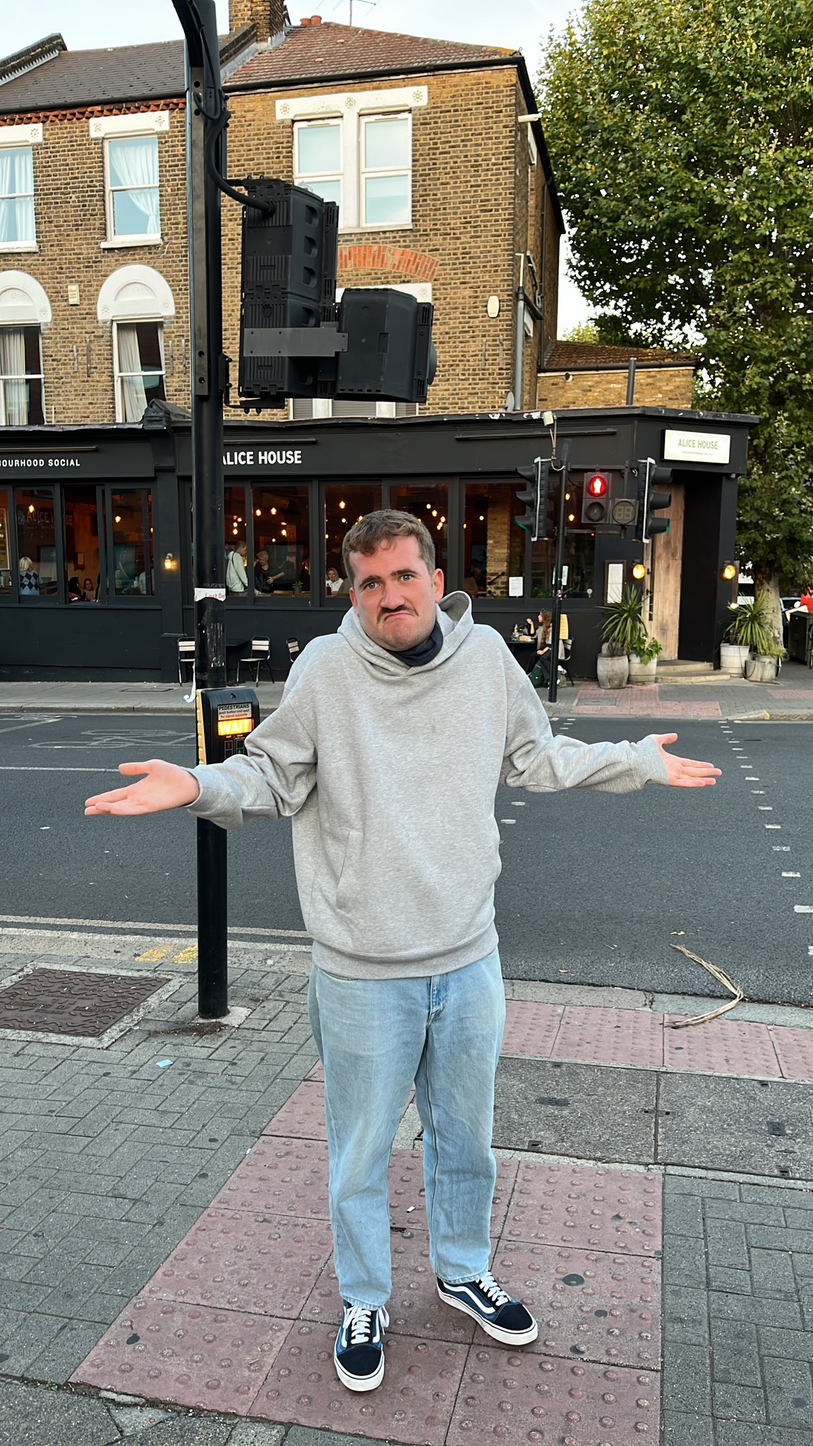
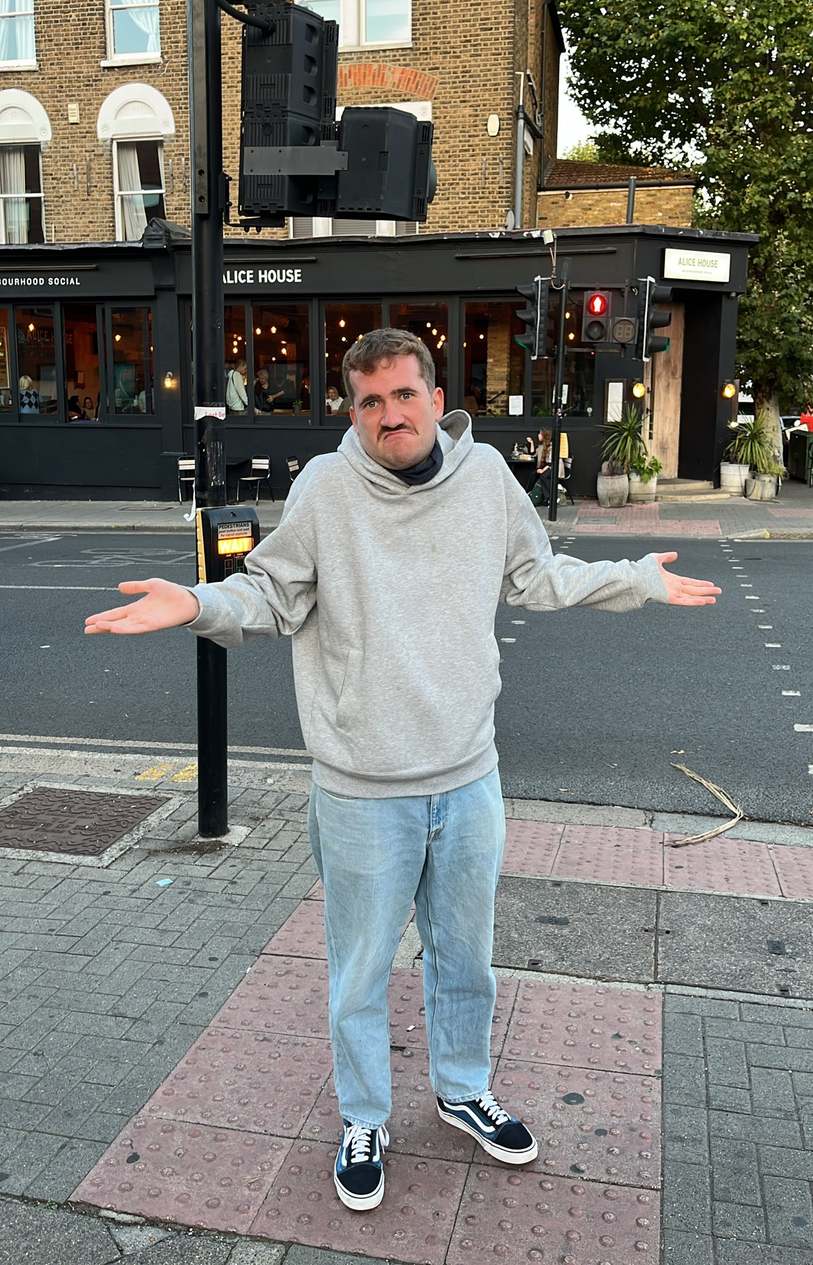
feat: update mentors and orga team

diff --git a/src/content/people.ts b/src/content/people.ts
@@ -4,12 +4,16 @@
  * avatar when omitted.
  */
 
+/** Omitted for regular on-site mentors. */
+export type MentorTeam = "awareness" | "remote";
+
 export type Mentor = {
   name: string;
   interest: string;
   avatar?: string;
   /** Shown on the back of the card when it is flipped. */
   altAvatar?: string;
+  team?: MentorTeam;
 };
 
 export const mentors: Mentor[] = [
@@ -17,6 +21,21 @@ export const mentors: Mentor[] = [
   { name: "Jan Wirwahn", interest: "Hardware", avatar: "/mentors/org/jan.jpg", altAvatar: "/mentors/alt/jan.jpg" },
   { name: "Eric Thieme-Garmann", interest: "Software", avatar: "/mentors/org/eric.jpg", altAvatar: "/mentors/alt/eric.png" },
   { name: "Felix Erdmann", interest: "Data", avatar: "/mentors/org/felix.jpg", altAvatar: "/mentors/alt/felix.png" },
-  { name: "Dr. Steffen Ciprina", interest: "Education", avatar: "/mentors/org/steffen.jpg", altAvatar: "/mentors/alt/steffen.jpeg" },
-  { name: "Eva Jacobs", interest: "Education", avatar: "/mentors/org/eva.png", altAvatar: "/mentors/alt/eva.png" },
+  { name: "Dr. Steffen Ciprina", interest: "Education", avatar: "/mentors/org/steffen.jpg", altAvatar: "/mentors/alt/steffen.jpeg", team: "awareness" },
+  { name: "Eva Jacobs", interest: "Education", avatar: "/mentors/org/eva.png", altAvatar: "/mentors/alt/eva.png", team: "awareness" },
+  { name: "Paula Scharf", interest: "AI", avatar: "/mentors/org/paula.png", altAvatar: "/mentors/alt/paula.jpg", team: "remote" },
+];
+
+export type OrgaMember = {
+  name: string;
+  organization: string;
+  avatar?: string;
+};
+
+/** Placeholders until the orga team is confirmed. */
+export const orgaTeam: OrgaMember[] = [
+  { name: "TBA", organization: "aim", avatar: "/orga/placeholder.svg" },
+  { name: "TBA", organization: "aim", avatar: "/orga/placeholder.svg" },
+  { name: "TBA", organization: "Arkadia", avatar: "/orga/placeholder.svg" },
+  { name: "TBA", organization: "Arkadia", avatar: "/orga/placeholder.svg" },
 ];

diff --git a/src/components/MentorCard.tsx b/src/components/MentorCard.tsx
@@ -4,6 +4,9 @@ import Image from "next/image";
 import { useState } from "react";
 import type { Mentor } from "@/content/people";
 import { cardClass } from "@/components/ui";
+import { dictionary as d } from "@/i18n";
+
+const AWARENESS_INFO_URL = "https://de.wikipedia.org/wiki/Awareness-Team";
 
 const face = "col-start-1 row-start-1 [backface-visibility:hidden]";
 
@@ -34,6 +37,29 @@ function Avatar({ mentor }: { mentor: Mentor }) {
   );
 }
 
+/** Small pill naming the mentor's team; awareness gets a "?" link explaining the term. */
+function TeamBadge({ team }: { team: NonNullable<Mentor["team"]> }) {
+  return (
+    <span className="mt-2 inline-flex items-center gap-1.5 rounded-full border border-line bg-surface-sunken px-2.5 py-0.5 text-xs font-medium text-ink-muted">
+      {d.mentorsJury.teams[team]}
+      {team === "awareness" ? (
+        <a
+          href={AWARENESS_INFO_URL}
+          target="_blank"
+          rel="noreferrer"
+          title={d.mentorsJury.awarenessInfo}
+          aria-label={d.mentorsJury.awarenessInfo}
+          onClick={(e) => e.stopPropagation()}
+          onKeyDown={(e) => e.stopPropagation()}
+          className="flex h-4 w-4 items-center justify-center rounded-full border border-current font-mono text-[0.65rem] leading-none hover:text-accent"
+        >
+          ?
+        </a>
+      ) : null}
+    </span>
+  );
+}
+
 /** Mentor card; flips to the alternative picture on click when one exists. */
 export function MentorCard({ mentor }: { mentor: Mentor }) {
   const [flipped, setFlipped] = useState(false);
@@ -52,6 +78,7 @@ export function MentorCard({ mentor }: { mentor: Mentor }) {
       <div>
         <h3 className="text-lg font-semibold text-ink">{mentor.name}</h3>
         <p className="mt-1 text-sm font-medium text-accent">{mentor.interest}</p>
+        {mentor.team ? <TeamBadge team={mentor.team} /> : null}
       </div>
     </>
   );

diff --git a/src/app/mentors-jury/page.tsx b/src/app/mentors-jury/page.tsx
@@ -1,16 +1,31 @@
 import Image from "next/image";
-import { mentors } from "@/content/people";
+import { mentors, orgaTeam, type Mentor } from "@/content/people";
 import { dictionary as d } from "@/i18n";
 import { MentorCard } from "@/components/MentorCard";
 import { Section } from "@/components/ui";
 
-function MentorGrid() {
+/** Regular mentors first, then the awareness team, then remote mentors. */
+const groups: Array<Mentor["team"]> = [undefined, "awareness", "remote"];
+
+/** Same column widths as a 1/2/4-column grid, but incomplete rows are centered. */
+function MentorRow({ members }: { members: Mentor[] }) {
   return (
-    <ul className="grid gap-5 sm:grid-cols-2 lg:grid-cols-3">
-      {mentors.map((mentor) => (
-        <MentorCard key={mentor.name} mentor={mentor} />
+    <ul className="flex flex-wrap justify-center gap-5 [&>li]:w-full sm:[&>li]:w-[calc((100%_-_1.25rem)/2)] lg:[&>li]:w-[calc((100%_-_3.75rem)/4)]">
+      {members.map((mentor, i) => (
+        <MentorCard key={`${mentor.name}-${i}`} mentor={mentor} />
       ))}
     </ul>
+  );
+}
+
+function MentorGrid() {
+  return (
+    <div className="flex flex-col gap-5">
+      {groups.map((team) => {
+        const members = mentors.filter((mentor) => mentor.team === team);
+        return members.length > 0 ? <MentorRow key={team ?? "standard"} members={members} /> : null;
+      })}
+    </div>
   );
 }
 
@@ -35,6 +50,12 @@ export default function MentorsJuryPage() {
             sizes="(min-width: 1024px) 72rem, 100vw"
           />
         </div>
+      </Section>
+
+      <Section title={d.mentorsJury.orgaTitle} lead={d.mentorsJury.orgaLead}>
+        <MentorRow
+          members={orgaTeam.map((m) => ({ name: m.name, interest: m.organization, avatar: m.avatar }))}
+        />
       </Section>
     </>
   );

diff --git a/src/i18n/dictionaries/en.ts b/src/i18n/dictionaries/en.ts
@@ -160,7 +160,14 @@ const en = {
     mentorsTitle: "Mentors",
     mentorsLead: "Ask them anything — that's what they're here for.",
     areaOfInterest: "Area of interest",
+    teams: {
+      awareness: "Awareness team",
+      remote: "Remote",
+    },
+    awarenessInfo: "Ask them for help in case of interpersonal issues.",
     juryTitle: "Jury",
+    orgaTitle: "Orga team",
+    orgaLead: "Questions about organisation or accreditation? They are your men and women.",
   },
   teams: {
     title: "Teams",

diff --git a/src/components/ui.tsx b/src/components/ui.tsx
@@ -57,7 +57,7 @@ export function Section({
             {title}
           </h2>
         ) : null}
-        {lead ? <p className="mt-3 max-w-2xl text-lg leading-relaxed text-ink-muted">{lead}</p> : null}
+        {lead ? <p className="mt-3 text-lg leading-relaxed text-ink-muted">{lead}</p> : null}
         {children ? <div className={title || lead ? "mt-8" : undefined}>{children}</div> : null}
       </div>
     </section>
